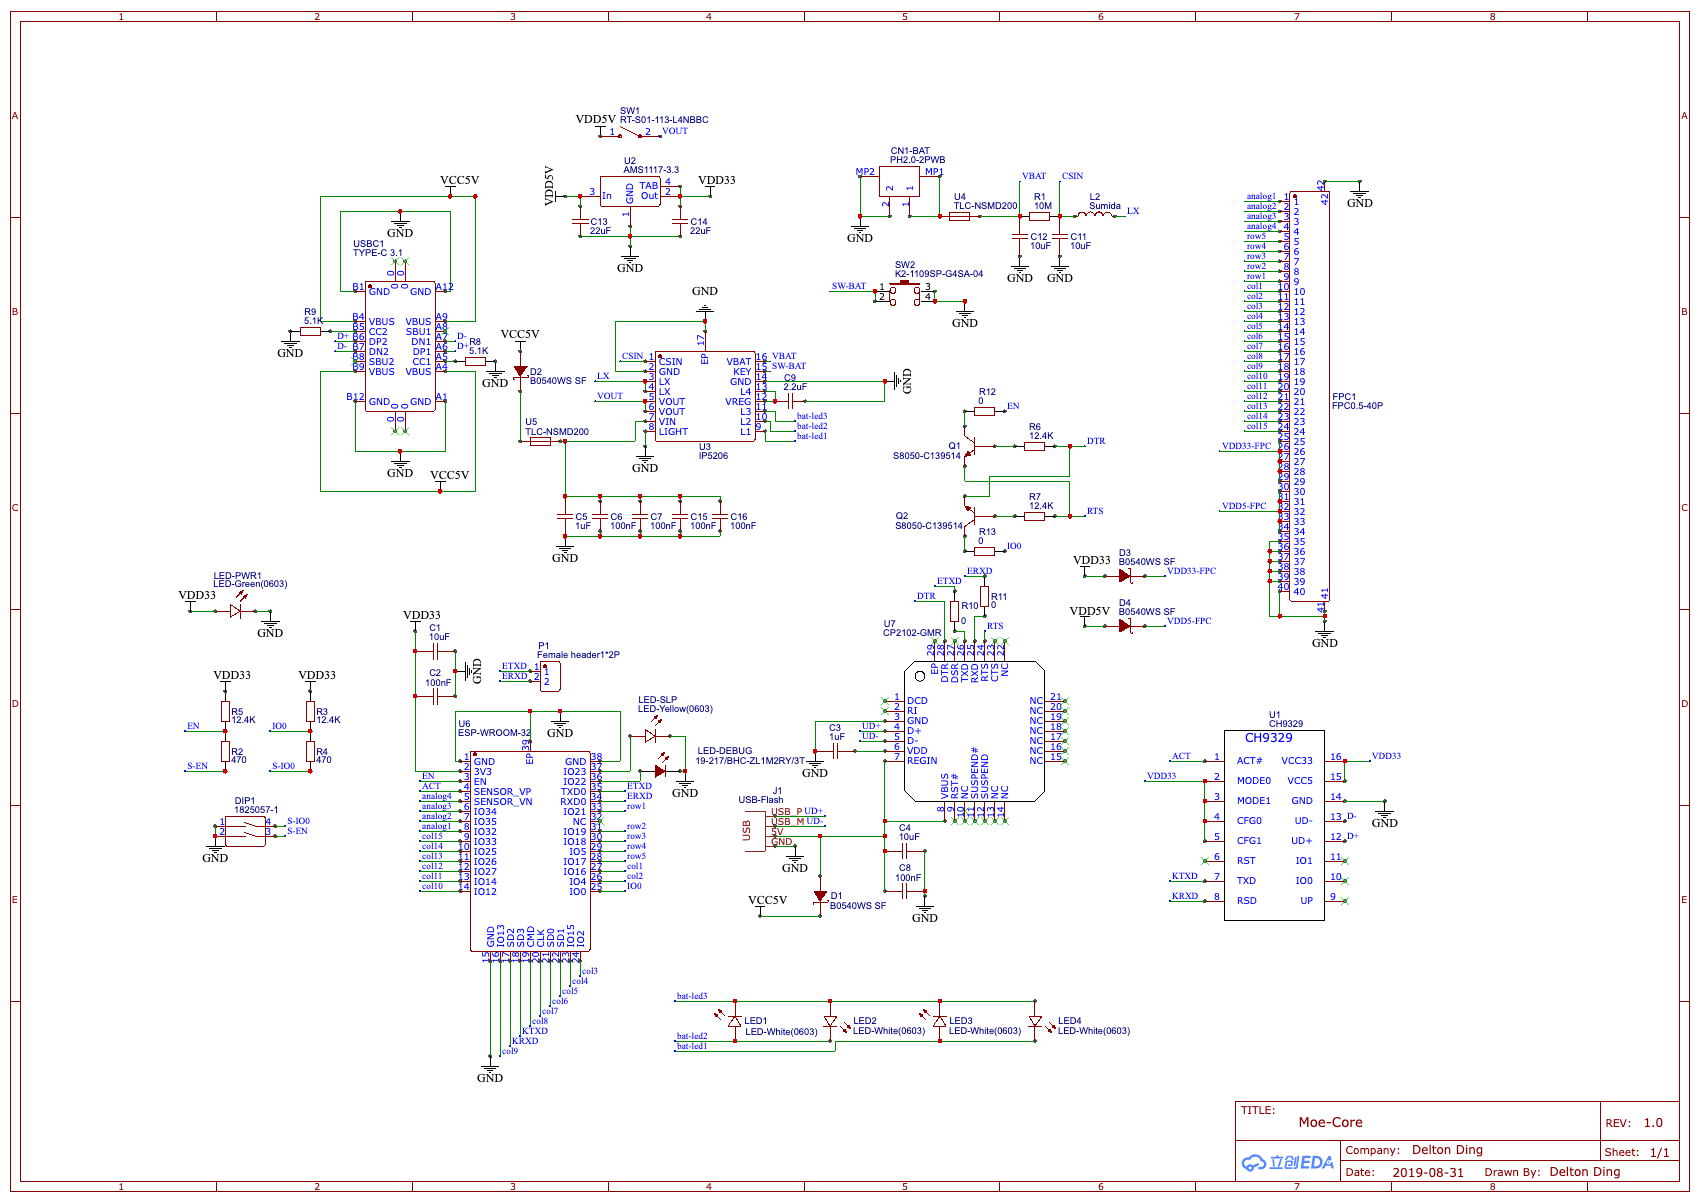
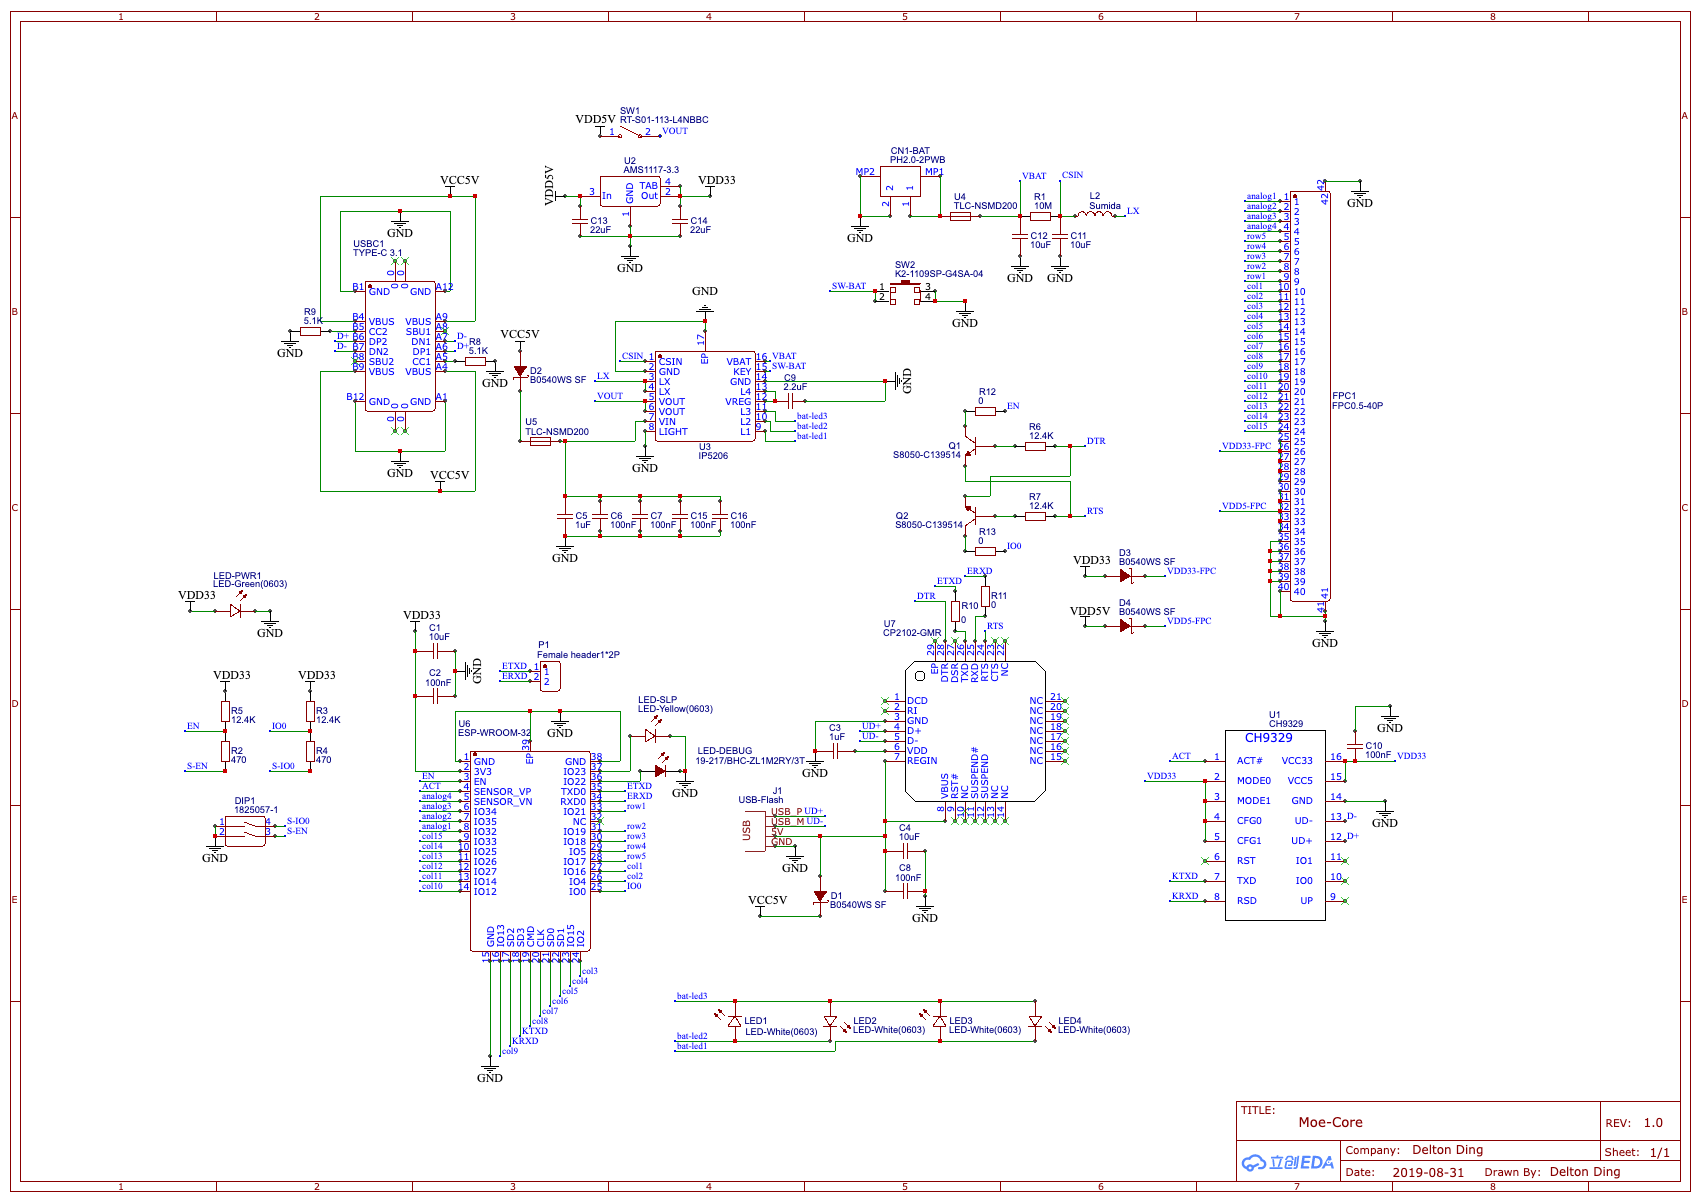
Update post

diff --git a/source/_posts/moe-keyboard-log-1.md b/source/_posts/moe-keyboard-log-1.md
@@ -40,12 +40,14 @@ Atmega32u4 首先不便宜，对于那个性能来说，非常划不来。相反
 
 ![电路图](/static/moe-core-feb.png)
 
-![正面](/static/pcb-moe-feb-a.jpg)
+![正面](/static/pcb-moe-feb-a.png)
 
-![背面](/static/pcb-moe-feb-b.jpg)
+![背面](/static/pcb-moe-feb-b.png)
 
 工程（MIT 协议）：[https://oshwhub.com/dsh0416/moe-core](https://oshwhub.com/dsh0416/moe-core)
 
 ## 挖坑
 
 等疫情过去了流出来调试。
+
+- 2019.2.17 更新，加了一个退耦电容以防万一。
